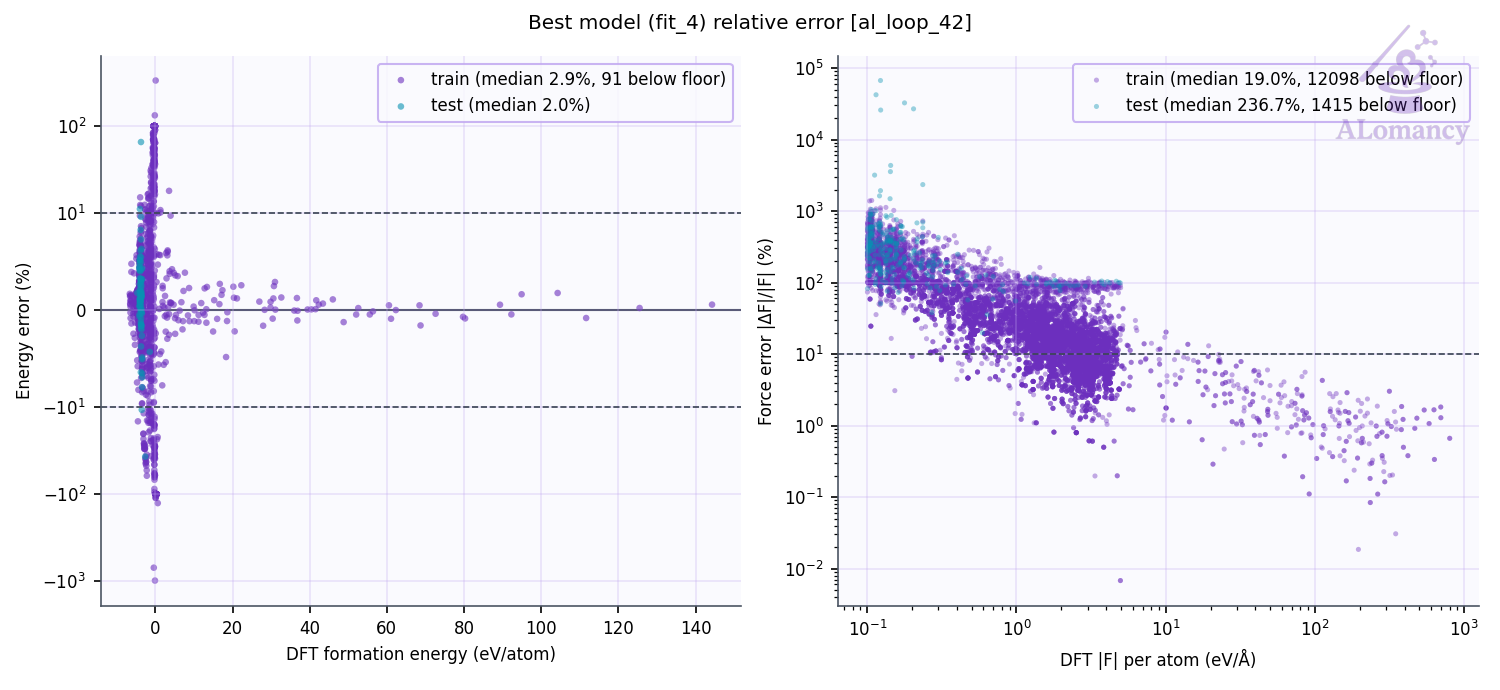
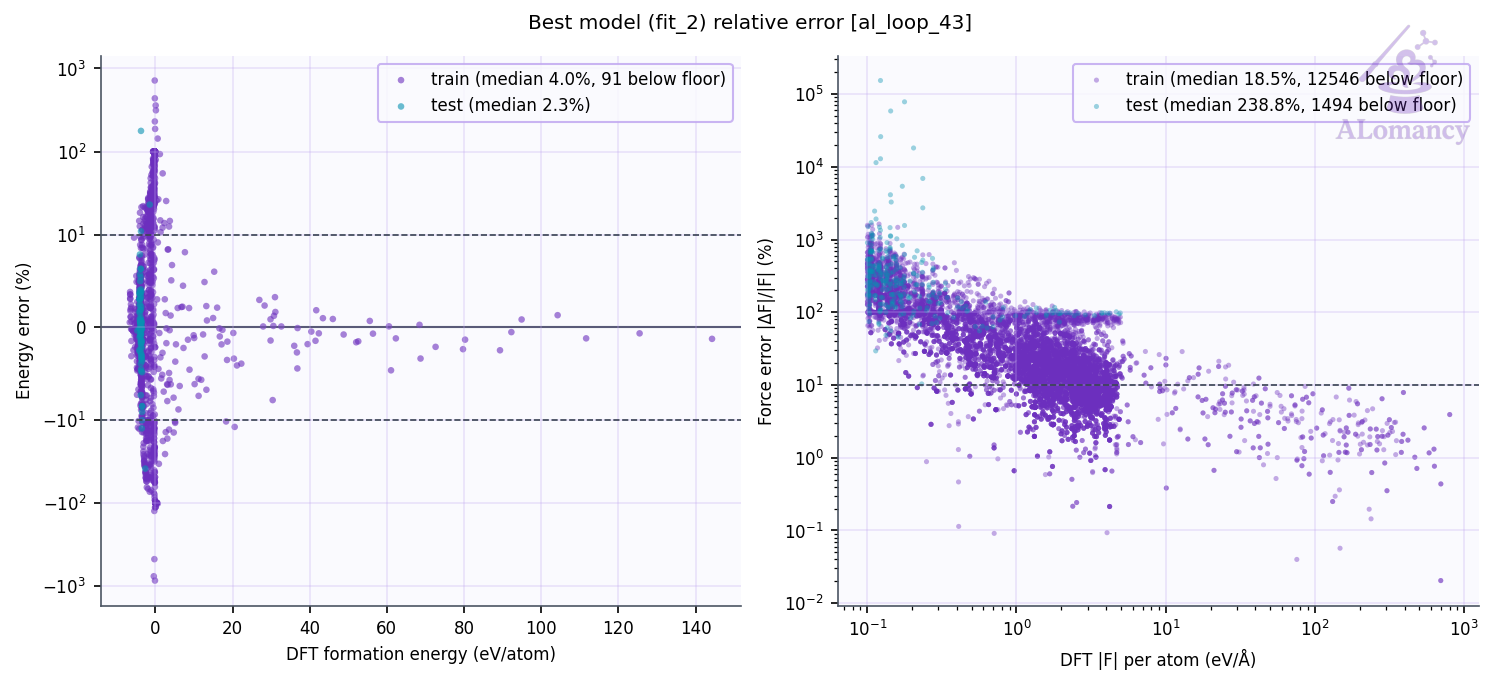
update yun_an

diff --git a/alomancy/yun_an/report/report.md b/alomancy/yun_an/report/report.md
@@ -1,31 +1,37 @@
-# ALomancy report: al_loop_42
+# ALomancy report: al_loop_43
 
-Workflow `committee_uncertainty` · trainer `mace` · generator `md` · evaluator `qe` · generated 2026-10-25T13:55:33
+Workflow `committee_uncertainty` · trainer `mace` · generator `md` · evaluator `qe` · generated 2026-10-28T05:12:34
 
-**Status:** ✖ 2 errors · ⚠ 4 warnings · 💡 1 info · 31 warning(s) logged
+**Status:** ✖ 2 errors · ⚠ 4 warnings · 💡 1 info · 39 warning(s) logged
 
 ## Headline
 
-| | loop 41 | loop 42 | change |
+| | loop 42 | loop 43 | change |
 |---|---:|---:|---:|
-| Best model test force MAE (eV/Å) | 0.469 | 0.333 | -29% |
-| Best model test energy MAE (meV/atom) | 152 | 147 | -3% |
-| Training structures | 1.9e+03 | 1.93e+03 | +2% |
-| Test structures | 86 | 90 | +5% |
-| New structures this loop | 27 | 34 | +26% |
-| Warnings / errors logged | 30 | 31 | +3% |
+| Best model test force MAE (eV/Å) | 0.333 | 0.473 | +42% |
+| Best model test energy MAE (meV/atom) | 147 | 189 | +28% |
+| Training structures | 1.93e+03 | 1.97e+03 | +2% |
+| Test structures | 90 | 96 | +7% |
+| New structures this loop | 34 | 57 | +68% |
+| Warnings / errors logged | 31 | 39 | +26% |
 
-Best model: fit_4 of 5 (chosen on the `valid` split).
+Best model: fit_2 of 5 (chosen on the `valid` split).
 
 ## Issues & suggestions
 
-- ✖ **remote_jobs_failed**: 26/81 remote jobs (32%) failed (8) or died (18). Check the job logs (results/alomancy.log has each failure's traceback); jobs killed by the scheduler usually need a longer max_time for that phase, or a partition with more memory.
-- ✖ **dft_partial_failure**: 11/45 structures sent to DFT (24%) came back without a result. Check the DFT output in results/<loop>/high_accuracy_evaluation; raise high_accuracy_evaluation.max_time / max_go_time if jobs timed out.
-- ⚠ **go_not_converged**: 8/34 geometry optimisations (24%) stopped at the step budget (200 steps) before reaching the force ceiling. Raise high_accuracy_evaluation.max_num_of_relax_steps, or raise high_accuracy_evaluation.force_ceiling (now 0.05 eV/Å) so they stop earlier. Non-converged structures are still kept as training data.
-- ⚠ **short_bond_excluded**: 190/235 structures (81%) were dropped for a bond shorter than 0.5 Å. The model is driving MD into collisions: lower md_kwargs.temperature or md_kwargs.timestep_fs, or add more short-range initialization data (dimers/trimers).
-- ⚠ **fewer_candidates**: Only 45 candidates were available for 100 requested structures. Generate more: raise md_kwargs.steps or structure_selection_kwargs.num_of_md_starts.
-- ⚠ **few_candidates_generated**: Structure generation produced only 45 usable candidates, less than twice the 100 structures added per loop, so the selector had little to choose from. Raise structure_generation.num_of_structures_to_generate (and md_kwargs.steps or structure_selection_kwargs.num_of_md_starts if MD runs end early).
-- 💡 **go_steps_near_budget**: Geometry optimisations used 161 of 200 allowed steps on average (80%). Consider raising high_accuracy_evaluation.max_num_of_relax_steps before they start hitting the limit.
+- ✖ **remote_jobs_failed**: 30/112 remote jobs (27%) failed (15) or died (15). Check the job logs (results/alomancy.log has each failure's traceback); jobs killed by the scheduler usually need a longer max_time for that phase, or a partition with more memory.
+- ✖ **dft_partial_failure**: 18/75 structures sent to DFT (24%) came back without a result. Check the DFT output in results/<loop>/high_accuracy_evaluation; raise high_accuracy_evaluation.max_time / max_go_time if jobs timed out.
+- ⚠ **go_not_converged**: 13/57 geometry optimisations (23%) stopped at the step budget (200 steps) before reaching the force ceiling. Raise high_accuracy_evaluation.max_num_of_relax_steps, or raise high_accuracy_evaluation.force_ceiling (now 0.05 eV/Å) so they stop earlier. Non-converged structures are still kept as training data.
+- ⚠ **short_bond_excluded**: 142/217 structures (65%) were dropped for a bond shorter than 0.5 Å. The model is driving MD into collisions: lower md_kwargs.temperature or md_kwargs.timestep_fs, or add more short-range initialization data (dimers/trimers).
+- ⚠ **fewer_candidates**: Only 75 candidates were available for 100 requested structures. Generate more: raise md_kwargs.steps or structure_selection_kwargs.num_of_md_starts.
+- ⚠ **few_candidates_generated**: Structure generation produced only 75 usable candidates, less than twice the 100 structures added per loop, so the selector had little to choose from. Raise structure_generation.num_of_structures_to_generate (and md_kwargs.steps or structure_selection_kwargs.num_of_md_starts if MD runs end early).
+- 💡 **overfitting**: The best model's test force MAE (0.473 eV/Å) is 2.7x its training MAE (0.178 eV/Å). The test set covers configurations training doesn't: keep adding data, or raise general.dataset_kwargs.valid_fraction to select models on held-out data.
+
+<details><summary>Suggestions file notes</summary>
+
+- suggestions entry `selection_redundant_shortfall` has no trigger (typo?)
+
+</details>
 
 ## Trends
 
@@ -38,6 +44,7 @@ Best model: fit_4 of 5 (chosen on the `valid` split).
 | 40 | 0.181 | 1698 | 9 | 9/81 | 100% | 3 | 97 |
 | 41 | 0.469 | 1896 | 27 | 27/43 | 67% | 2 | 30 |
 | 42 | 0.333 | 1926 | 34 | 34/45 | 76% | 0 | 31 |
+| 43 | 0.473 | 1971 | 57 | 57/75 | 77% | 3 | 39 |
 
 ![Best-model MAE per loop](plots/training_al_loop_mae_plot.png)
 
@@ -47,7 +54,7 @@ Best model: fit_4 of 5 (chosen on the `valid` split).
 
 ![Best model parity](plots/best_model_parity.png)
 
-Median relative error: train energy 2.9%, force 19.0%; test energy 2.0%, force 236.7%.
+Median relative error: train energy 4.0%, force 18.5%; test energy 2.3%, force 238.8%.
 Energies with |formation energy| < 0.05 eV/atom and atoms with |F| < 0.1 eV/Å are left out; force error is |ΔF|/|F| per atom.
 
 ![Best model percentage error](plots/best_model_percent_error.png)
@@ -57,15 +64,15 @@ Energies with |formation energy| < 0.05 eV/atom and atoms with |F| < 0.1 eV/Å a
 | config_type | Train | Test | Excluded: redundant | Excluded: quality filter | total |
 |---|---:|---:|---:|---:|---:|
 | IsolatedAtom | 5 | 0 | 0 | 0 | 5 |
-| high_sd | 521 | 74 | 44 | 346 | 985 |
+| high_sd | 569 | 80 | 47 | 346 | 1042 |
 | init_MP | 69 | 4 | 0 | 0 | 73 |
-| init_amorphous | 71 | 12 | 4 | 0 | 87 |
+| init_amorphous | 68 | 12 | 7 | 0 | 87 |
 | init_dimer | 299 | 0 | 0 | 0 | 299 |
 | init_stretch_compress | 390 | 0 | 0 | 398 | 788 |
 | init_trimer | 571 | 0 | 0 | 0 | 571 |
-| **all** | **1926** | **90** | **48** | **744** | **2808** |
+| **all** | **1971** | **96** | **54** | **744** | **2865** |
 
-- Redundancy removal: 48 structure(s) flagged in total, 0 of this loop's 34 new.
+- Redundancy removal: 54 structure(s) flagged in total, 3 of this loop's 57 new.
 - Quality filters: high_force: 742, formation_energy: 174.
 
 ![Training set composition](plots/training_set_composition.png)
@@ -74,28 +81,28 @@ Energies with |formation energy| < 0.05 eV/atom and atoms with |F| < 0.1 eV/Å a
 
 Redundancy removal flags near-duplicate training structures, so the model isn't trained on many copies of the same geometry. Each structure is described by `char_vec_128`: all of its interatomic distances, sorted and resampled to 128 values (`global_descriptor/atomic_distance_descriptor.make_char_vec`). Two structures count as duplicates when the Euclidean distance between their descriptors is below a tolerance: in database order, each structure still in the training set is kept unless it is within the tolerance of one already kept. The plot sweeps that tolerance and counts how many structures are kept at each value. **We are looking for plateaus** (shaded): ranges where the count doesn't change, so the result doesn't depend on the exact tolerance. The orange line (right axis) is the number of structures removed between consecutive tolerance steps, the gradient of the count: zero on a plateau. The start of the lowest plateau at least `general.redundancy_kwargs.min_plateau_width` of the swept range wide is used (dashed line). Nothing is flagged when no plateau qualifies, or when it would flag more than `max_flagged_fraction` of the structures; `general.redundancy_kwargs.tolerance` sets the tolerance directly.
 
-- This loop: 661 structures probed; the lowest plateau would flag more than 50% of them, so nothing was flagged.
+- This loop: 712 structures probed, tolerance 0.0398, 6 flagged as duplicates (9 plateau(s) found).
 
 ![Redundancy tolerance probe](plots/redundancy_tolerance_probe.png)
 
 ## DFT
 
-- Structures: 34 returned of 45 submitted (34 relaxed, 0 single point).
-- Geometry optimisation: 26/34 reached the force ceiling (0.05 eV/Å); steps mean 160.6, median 168, max 200 of 200 allowed.
-- Average DFT time per relaxation: 336.8 min (median 336.0, max 506.6; 34 structures).
-- Largest per-atom force after DFT: median 0.05, max 0.27 eV/Å.
-- DFT phase wall-clock: 22.1 h (mean queue time 82 min).
+- Structures: 57 returned of 75 submitted (57 relaxed, 0 single point).
+- Geometry optimisation: 44/57 reached the force ceiling (0.05 eV/Å); steps mean 143.9, median 143, max 200 of 200 allowed.
+- Average DFT time per relaxation: 294.6 min (median 300.0, max 580.8; 57 structures).
+- Largest per-atom force after DFT: median 0.05, max 0.49 eV/Å.
+- DFT phase wall-clock: 54.6 h (mean queue time 516 min).
 
 ## MLIP training: mace
 
-- Best fit (fit_4) trained for 199 epochs, stage two from epoch 160; weights kept from epoch 187.
+- Best fit (fit_2) trained for 199 epochs, stage two from epoch 160; weights kept from epoch 162.
 
 ![Best model training curve](plots/best_model_training_curve.png)
 
 ## Structure generation: MD
 
-- Runs: 26 (25 completed, 1 seed(s) replaced)
-- Candidate frames: 235 (per completed run: median 5, min 2)
+- Runs: 27 (25 completed, 2 seed(s) replaced)
+- Candidate frames: 217 (per completed run: median 5, min 2)
 - Ensemble npt, T = 300 K, timestep 0.3 fs
 
 ![MD frames per run](plots/md_frames_per_run.png)
@@ -110,7 +117,7 @@ Redundancy removal flags near-duplicate training structures, so the model isn't 
 
 ## Selection: committee uncertainty
 
-- 45 candidates scored; 45 selected (max force std dev ≥ 0 eV/Å).
+- 75 candidates scored; 75 selected (max force std dev ≥ 0 eV/Å).
 
 ![Committee force std dev](plots/committee_force_std_dev.png)
 
@@ -121,11 +128,12 @@ Redundancy removal flags near-duplicate training structures, so the model isn't 
 | `dft_summary` | DFT batch summary | 1 |
 | `few_candidates_generated` | fewer than 2x per-loop candidates generated | 1 |
 | `fewer_candidates` | fewer candidates than requested | 1 |
-| `job_died` | remote job died (killed / lost) | 18 |
-| `job_failed` | remote job failed | 8 |
+| `job_died` | remote job died (killed / lost) | 15 |
+| `job_failed` | remote job failed | 15 |
+| `job_resumed` | transient remote error, polling resumed | 5 |
 | `jobs_started` | remote jobs started | 5 |
 | `md_no_steps` | MD runs replaced (no MD step) | 1 |
 | `md_summary` | MD summary | 1 |
 | `quality_filtered` | train/test quality filter passes | 2 |
-| `redundancy_cap_hit` | redundancy removal skipped (would flag too many) | 1 |
+| `redundancy_flagged` | redundancy removal passes | 1 |
 | `short_bond_excluded` | structures dropped for a short bond | 1 |
